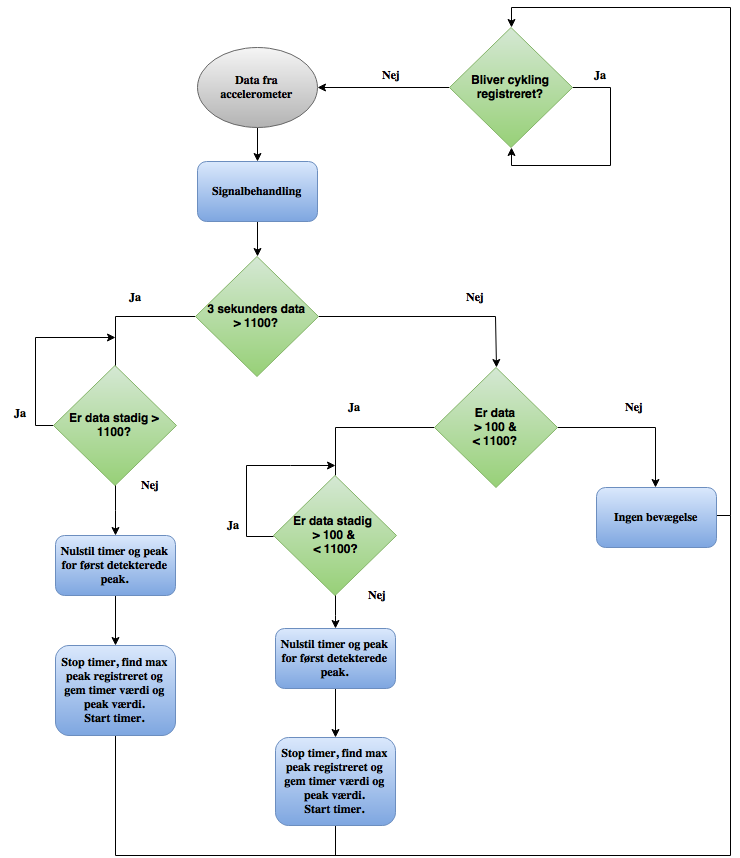
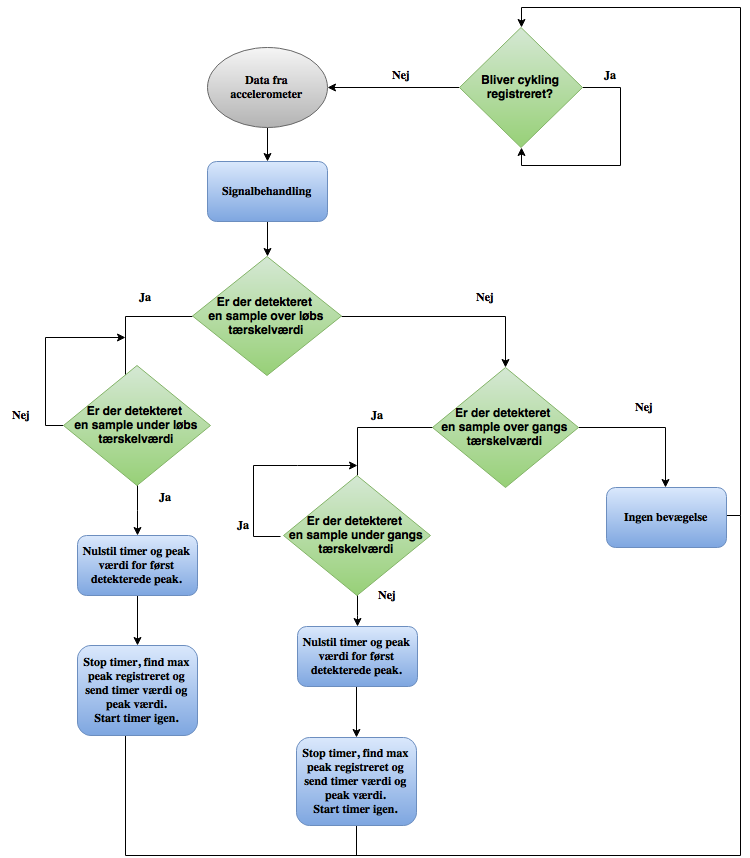
algoritme

diff --git a/rapportAfsnit/eDesign/xAlgoritme.tex b/rapportAfsnit/eDesign/xAlgoritme.tex
@@ -24,7 +24,7 @@ Resultatet af ovenstående signalbehandling medfører at der findes et udtryk fo
 \end{figure}
 
 Ovenstående figur repræsenterer algoritmen for detektering og adskilles af gang og løb. Førend algoritmen tilhørende gang og løb starter, undersøges hvorvidt cykling registreres. Hvis dette ikke er tilfældet og løb detekteres, skal en timer stoppe når løb ikke længere detekteres. Når timeren stopper gemmes varigheden for timeren i et array tilhørende udført løb og max peak registreres og gemmes ligeledes. Herefter startes timeren igen. Hvis løb ikke detekteres, undersøges der hvorvidt gang registreres. Hvis gang registreres skal en timer ligeledes først stoppe når gang ikke længere detekteres. Når timeren stopper gemmes varigheden for timeren i et array tilhørende udført gang og max peak registeres og gemmes ligeledes. Herefter startes timeren igen. Hvis algoritmen for detektering af løb og gang ikke registrer aktiviteterne, så bliver der ikke udført nogen bevægelse, og algoritmen starter forfra. \\
-Fælles for både detektering af gang og løb er at første målte peak og eller efterfulgt at inaktivitet kasseres. Dette er tilfældet da dette sikre at en periode med inaktivitet ikke summeres som faktisk gang eller løb. 
+Fælles for både detektering af gang og løb er at første målte peak og, eller efterfulgt at inaktivitet kasseres. Dette er tilfældet da dette sikre at en periode med inaktivitet ikke summeres som faktisk gang eller løb. 
 
 \subsection{Cykling}
 Data fra gyroskopets z-akse skal signalbehandles, førend en algoritme kan detektere og adskille aktiviteterne. Første trin i denne signalbehandling er at udføre en Fast Fourier Transform (FFT) over fire sekunders sampling. Dette medfører at signalets magnitude og dets tilhørende frekvenser kommer til udtryk, hvorefter andet trin indledes. Dette trin finder den maksimale magnitude med tilhørende frekvens. Tredje trin består af to summeringer, første summering summerer FFT'en fra den frekvens hvor den største magnitude befandt sig $\pm$1 Hz. Anden summering summerer FFT'en fra 1 til 20 Hz. Resultaterne af disse, benyttes til fjerde og sidste trin, som omregner hvor stor en procentdel den første summering udgør af den anden summering. \\
@@ -43,7 +43,7 @@ Ovenstående figur repræsenterer algoritmen for detektering af cykling. Hvis cy
 
 \subsection{Implementering}
 \subsubsection{Gang og løb}
-Implementeringen af algoritmen for detektering af gang og løb består grundlæggende af to delelementer. Først signalbehandling, hvorefter selve algoritmen implementeres. Signal behandlingen er blevet implementeret som enestående funktioner, hvoraf signalet bliver behandlet med fire funktioner førend data bliver kørt igennem algoritmen.
+Implementeringen af algoritmen for detektering af gang og løb består grundlæggende af to delelementer. Først signalbehandling, hvorefter selve algoritmen implementeres. Signalbehandlingen er blevet implementeret som enestående funktioner igennem C, hvoraf signalet bliver behandlet med fire funktioner førend data bliver kørt igennem algoritmen.
 
 \begin{figure}[H]
 	\centering
@@ -52,7 +52,7 @@ Implementeringen af algoritmen for detektering af gang og løb består grundlæg
 	\label{fig:algoritme_cykling}
 \end{figure}
 
-Det behandlede output antages som værende repræsentativt for hvordan PSoC vil behandle data når det endelige system er færdigt. Dette er tilfældet, da det er data fra pilotforsøget, som er blevet behandlet igennem PSoC, og derefter plottet. Data fra pilotforsøget er for alle forsøgspersoner blevet behandlet med ovenstående signalbehandling med henblik på fastsættelse af tærskelværdier. 
+Funktionaliteten af ovenstående signalbehandling sikre at hælnedslag bliver omdannet til en størrelse hvoraf tærskelværdier til detektering er muligt. Det behandlede output antages som værende repræsentativt for hvordan PSoC vil behandle realtids data når det endelige system er færdigt. Dette antages, da det er data fra pilotforsøget, som er blevet behandlet igennem PSoC, og derefter visualiseret. Data fra pilotforsøget er for alle forsøgspersoner blevet behandlet med ovenstående signalbehandling med henblik på fastsættelse af tærskelværdier. 
 
 \begin{table}[H]
 	\centering
@@ -87,70 +87,59 @@ De individuelle tærskelværdier er fundet over et fem sekunders vindue. Heraf a
 	\label{tab:faelles_taerskel}
 \end{table}
 
-
+Fastsættelsen af den fælles tærskelværdi bør sikre at gang og løb blandt forsøgspersonerne er mulige at detektere, samt adskille. Igennem behandling af data fra pilotforsøget forekom tærskelværdierne i \tabref{tab:faelles_taerskel} dækkende for alle forsøgspersonerne, hvoraf disse blev valgt.
 
 
 \subsection{Test}
-For at teste hvorvidt algoritmen 
+Algoritmens funktioner testes individuelt samt samlet, ved at indsende et simuleret signal, hvis funktion er at skulle agerer som gang, løb eller inaktivitet. Det simulerede signal er et absolut sinus signal, med varierende amplitude. Amplituden for det simulerede signal afgør, hvorvidt signalet bør agerer som gang, løb eller inaktivitet.  
 
-
-Gang:
-\begin{figure}[H]
-	\centering
-	\includegraphics[scale=0.6]{figures/cDesign/test_timecount_gang.png}
-	\caption{Tiddetektering }
-	\label{fig:algoritme_cykling}
-\end{figure}
+For at teste algoritmens funktionalitet vedrørende detektering af gang, blev et absolut sinussignal samplet med 512 Hz, en frekvens på 0,5 Hz og en amplitude på 125, indsendt. Dette resulterede i tre halvbølger med en amplitude på 125, på 1536 samples. 
 
 \begin{figure}[H]
 	\centering
-	\includegraphics[scale=0.6]{figures/cDesign/test_peak_gang.png}
-	\caption{peak}
-	\label{fig:algoritme_cykling}
+	\includegraphics[scale=0.3]{figures/cDesign/test_timecount_gang.png}
+	\caption{På figuren ses algoritmens time counter, som resultat af detektering af et gang signal. Den sorte kurve er det simulerede gang signal, og den røde kurve er algoritmens time counter, af samples som overholder algoritmens krav.}
+	\label{fig:testgraf_timecounter}
 \end{figure}
-
+Algoritmens time counter starter når signalet bliver indsendt, og nulstilles efter en sample, hvis værdi er under tærskelværdien. Heraf kan det ses at varigheden fra at en sample er gået under en tærskelværdi til at en sample igen er gået under en tærskelværdi er 512 samples. En af algoritmens funktioner er at frasortere det første detekterede peak, dermed nulstille time counter værdien, samt peak værdien. Den egentlige test vedrørende algoritmens time counter består dermed i at undersøge hvilke data der videresendes efter et input er kørt igennem algoritmen.
 
 \begin{table}[H]
 	\centering
 	\begin{tabular}{ccc}
 		\hline
 		\rowcolor[HTML]{C0C0C0} 
-		Aktivitet & Modtaget time counter & Modtaget peak værdi \\ \hline
-		Gang & 512 - 512 & 125 - 125 \\ \hline
+		Værdi videresendt & Forventet værdi [samples] & Modtaget værdi [samples] \\ \hline
+		Time counter & $\emptyset$ - 512 - 512 & $\emptyset$ - 512 - 512 \\ \hline
 	\end{tabular}
-	\caption{praktisk}
-	\label{my-label}
-\end{table}
+	\caption{I tabellen ses testresultaterne vedrørende test af time counter. $\emptyset$ antyder at det ikke blev modtaget noget ved første peak.}
+	\label{tab:test_res_timecount}
+\end{table} 
+Algoritmen er blevet testet på tre halvbølger, og dermed er det forventede resultat at varigheden af første peak ikke blev medregnet og videresendt som et resultat. Algoritmens time counter fungerede dermed som forventet, og videresendte det forventede resultat. \\
 
-Løb
+Algoritmens andet resultat som skal videresendes, og dermed en af dets funktioner, er peak detektering. Denne peak detektering er designet således at det ikke skal registrer det første peak i et signal.
 \begin{figure}[H]
 	\centering
-	\includegraphics[scale=0.6]{figures/cDesign/test_timecount_loeb.png}
-	\caption{Tiddetektering }
-	\label{fig:algoritme_cykling}
+	\includegraphics[scale=0.3]{figures/cDesign/test_peak_gang.png}
+	\caption{På figuren ses algoritmens funktion til at finde peakværdier, som resultat af detektering af et gang signal. Den sorte kurve er det simulerede gang signal, og den røde kurve er algoritmens funktion til detektering af peakværdier.}
+	\label{fig:test_peak_gang}
 \end{figure}
-
-\begin{figure}[H]
-	\centering
-	\includegraphics[scale=0.6]{figures/cDesign/test_peak_loeb.png}
-	\caption{peak}
-	\label{fig:algoritme_cykling}
-\end{figure}
-
-
+Algoritmens detektering af peak starter når en sample overskrider en tærskelværdi, og finder peaket, når en sample er under tærskelværdien. Hvis det er første peak der detekteres sættes værdien til nul. Heraf kan det ses at når samplen går under tærskelværdien anden gang så bliver peaket registreret. Den egentlige test vedrørende algoritmens detektering af peaks, består dermed i at undersøge hvilke data der videresendes efter et input er kørt igennem algoritmen.
 \begin{table}[H]
 	\centering
 	\begin{tabular}{ccc}
 		\hline
 		\rowcolor[HTML]{C0C0C0} 
-		Aktivitet & Modtaget time counter & Modtaget peak værdi \\ \hline
-		Løb & 512 - 512 & 1150 - 1150 \\ \hline
+		Værdi videresendt & Forventet værdi [samples] & Modtaget værdi [samples] \\ \hline
+		Peak detektering & $\emptyset$ - 125 - 125 & $\emptyset$ - 125 - 125 \\ \hline
 	\end{tabular}
-	\caption{praktisk}
-	\label{my-label}
+	\caption{I tabellen ses testresultaterne vedrørende test af detektering af peaks. $\emptyset$ antyder at det ikke blev modtaget noget ved første peak.}
+	\label{tab:test_res_timecount}
 \end{table}
+Algoritmen er blevet testet på tre halvbølger, og dermed er det forventede resultat at peakværdien af det første peak ikke blev medregnet og videresendt som et resultat. Algoritmens peak detektering
+fungerede dermed forventet, og videresendte amplituden som halvbølgerne var designet med. \\
+Algoritmen for løb blev ligeledes testet med henhold til time counter og peak detektering. Ved denne test blev der indsendt et ligende absolut sinussignal, med en anden amplitude som ville overskride tærskelværdien vedrørende detektering af løb. Resultaterne af disse test medførte resultater af samme nøjagtighed som ved detektering af gang. Algoritmen bør dermed fungerer optimalt, både til detektering af gang og løb. 
 
-Inaktivitet
+
 \begin{figure}[H]
 	\centering
 	\includegraphics[scale=0.6]{figures/cDesign/test_timecount_inaktiv.png}
@@ -171,7 +160,7 @@ Inaktivitet
 	\begin{tabular}{ccc}
 		\hline
 		\rowcolor[HTML]{C0C0C0} 
-		Aktivitet & Modtaget time counter & Modtaget peak værdi \\ \hline
+		Aktivitet & Modtaget time counter & Modtaget peakværdi \\ \hline
 		Gang & 512 - 512 - 512 - 512 & 400 - 400 - 1300 - 1300 \\ \hline
 	\end{tabular}
 	\caption{praktisk}
